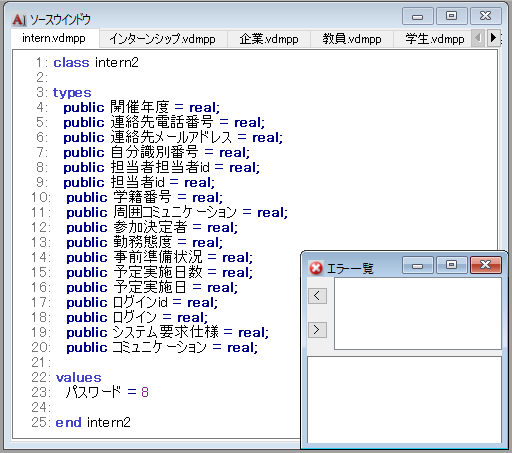
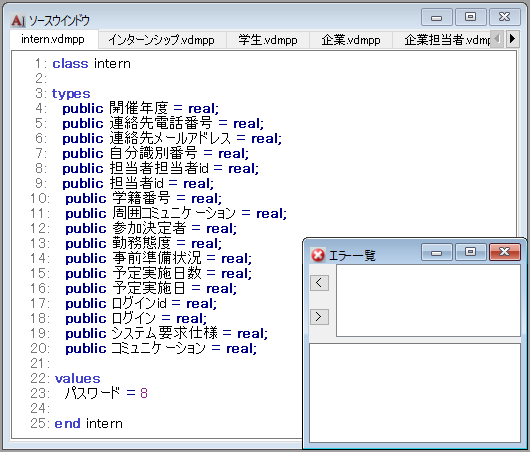
3回目の修正完了

Changed region(s): [[0.0, 0.0, 1.0, 1.0]]

diff --git a/chapters/50-indication.tex b/chapters/50-indication.tex
@@ -17,14 +17,14 @@ VGMLに、Microsoft社のwordで記述した自然言語仕様書「インター
 この適用例では、学習済みモデルを生成するために使用した教師データの自然言語仕様書と同じ自然言語仕様書をVGMLに適用することによって、
 VGMLが、VDM++仕様書のクラス、型定義、定数定義、インスタンス変数定義、操作定義を生成できること、かつ、生成したVDM++仕様書の構文が正しいことを確認する。
 
-VGMLに仕様書Aを適用した結果、6つのファイルを生成した。
+VGMLに仕様書Aを適用した結果、「intern.vdmpp」、「インターンシップ.vdmpp」、「学生.vdmpp」、「企業.vdmpp」、「企業担当者.vdmpp」、「教員.vdmpp」の6つのファイルを生成した。
 VGMLが仕様書Aを基に生成した6つのファイルを、図\ref{fig:indication_vdm1}-図\ref{fig:indication_vdm6}に示す。
 図\ref{fig:indication_vdm1}-図\ref{fig:indication_vdm6}は、VDM++ Toolbox\cite{Tools}での出力の画面である。
 
 \begin{figure}[p]
     \begin{center}
     \includegraphics[width=300]{image/indication_vdm1.PNG}
-    \caption{VGMLが仕様書Aを基に生成したファイル1}
+    \caption{VGMLが仕様書Aを基に生成したファイル「intern.vdmpp」}
     \label{fig:indication_vdm1}
     \end{center}
 \end{figure}
@@ -32,7 +32,7 @@ VGMLが仕様書Aを基に生成した6つのファイルを、図\ref{fig:indic
 \begin{figure}[p]
     \begin{center}
     \includegraphics[width=300]{image/indication_vdm2.PNG}
-    \caption{VGMLが仕様書Aを基に生成したファイル2}
+    \caption{VGMLが仕様書Aを基に生成したファイル「インターンシップ.vdmpp」}
     \label{fig:indication_vdm2}
     \end{center}
 \end{figure}
@@ -40,7 +40,7 @@ VGMLが仕様書Aを基に生成した6つのファイルを、図\ref{fig:indic
 \begin{figure}[p]
     \begin{center}
     \includegraphics[width=300]{image/indication_vdm3.PNG}
-    \caption{VGMLが仕様書Aを基に生成したファイル3}
+    \caption{VGMLが仕様書Aを基に生成したファイル「学生.vdmpp」}
     \label{fig:indication_vdm3}
     \end{center}
 \end{figure}
@@ -48,7 +48,7 @@ VGMLが仕様書Aを基に生成した6つのファイルを、図\ref{fig:indic
 \begin{figure}[tp]
     \begin{center}
     \includegraphics[width=300]{image/indication_vdm4.PNG}
-    \caption{VGMLが仕様書Aを基に生成したファイル4}
+    \caption{VGMLが仕様書Aを基に生成したファイル「企業.vdmpp」}
     \label{fig:indication_vdm4}
     \end{center}
 \end{figure}
@@ -56,7 +56,7 @@ VGMLが仕様書Aを基に生成した6つのファイルを、図\ref{fig:indic
 \begin{figure}[tp]
     \begin{center}
     \includegraphics[width=300]{image/indication_vdm5.PNG}
-    \caption{VGMLが仕様書Aを基に生成したファイル5}
+    \caption{VGMLが仕様書Aを基に生成したファイル「企業担当者.vdmpp」}
     \label{fig:indication_vdm5}
     \end{center}
 \end{figure}
@@ -64,12 +64,13 @@ VGMLが仕様書Aを基に生成した6つのファイルを、図\ref{fig:indic
 \begin{figure}[tp]
     \begin{center}
     \includegraphics[width=300]{image/indication_vdm6.PNG}
-    \caption{VGMLが仕様書Aを基に生成したファイル6}
+    \caption{VGMLが仕様書Aを基に生成したファイル「教員.vdmpp」}
     \label{fig:indication_vdm6}
     \end{center}
 \end{figure}
 
-構文、および、タイプチェッカーを備えたVDM++ Toolboxは、生成したVDM++仕様書に対して警告を表示しなかった。
+構文、および、タイプチェッカーを備えたVDM++ Toolboxは、構文にエラーがあればエラー一覧のウィンドウに、警告を表示する。
+適用結果の6つのファイルを確認したところ、VDM++ Toolboxは、VGMLが生成したVDM++仕様書に対して警告を表示しなかった。
 このことから、VGMLに自然言語仕様書を適用することにより、
 クラス、型定義、定数定義、インスタンス変数定義、操作定義を記述したVDM++仕様書を生成できること、
 かつ、生成したVDM++仕様書の構文が正しいことを確認した。

diff --git a/paper.tex b/paper.tex
@@ -84,16 +84,16 @@
 \begin{thebibliography}{10}
 	    
     \bibitem{shigyo1}Yasuhiro Shigyo, Tetsuro Katayama, Yoshihiro Kita, Hisaaki Yamaba, Kentaro Aburada, Naonobu Okazaki. 
-    Proposal of an Algorithm to Generate VDM++ by Using Word Lists Extracted from the Natural Language Speciﬁcation. 
+    Proposal of an Algorithm to Generate VDM++ by Using Word Lists Extracted from the Natural Language Specification. 
     The 2020 International Conference on Arificial Life and Robotics(ICAROB 2020), 
     pp. 763-766, 2020.
     
     \bibitem{shigyo2}Tetsuro Katayama, Yasuhiro Shigyo, Yoshihiro Kita, Hisaaki Yamaba, Kentaro Aburada, Naonobu Okazaki. 
-    Proposal of an Algorithm to Generate VDM++ Speciﬁcation Based on its Grammar by Using Word Lists Extracted from the Natural Language Speciﬁcation. 
+    Proposal of an Algorithm to Generate VDM++ Specification Based on its Grammar by Using Word Lists Extracted from the Natural Language Specification. 
     Journal of Robotics, Networking and Artiﬁcial Life, vol7(3), pp.165-169, 2020.
 
     \bibitem{shigyo3} Yasuhiro Shigyo, Tetsuro Katayama. 
-    Proposal of an Approach to Generate VDM++ Speciﬁcations from Natural Language Speciﬁcation by Machine Learning. 
+    Proposal of an Approach to Generate VDM++ Specifications from Natural Language Specification by Machine Learning. 
     2020 IEEE 9th Global Conference on Consumer Electronics(GCCE), 
     pp. 292-296, 2020.
 
@@ -109,6 +109,9 @@
     \bibitem{ET_robo}
     ETロボコン2020委員会,  “ETロボコン2020シュミレーター競技規約”, https:\slash \slash docs.etrobo.jp\slash rules\slash 2020\slash ETRC2020\_rules(sim)\_1.0.1.pdf. Acceseed: 2023-01-12.
 
+    \bibitem{F_value}
+    atmarkit, ``[評価指標]F値(F-measure、F-score)\slash F1スコア(F1-score)とは?'', https:\slash \slash atmarkit.itmedia.co.jp\slash ait\slash articles\slash 2210\slash 24\slash news034.html.
+
     \bibitem{research1}
     大森洋一, 荒木啓二郎. 
     自然言語による仕様記述の形式モデルへの変換を利用した品質向上に向けて. 
@@ -123,7 +126,7 @@
 
     \bibitem{research3}
     Lee Beum-Seuk, Barrett R. Bryant. 
-    Automated conversion from requirements documentation to an ob jectoriented formal speciﬁcation language. 
+    Automated conversion from requirements documentation to an ob jectoriented formal specification language. 
     2002 ACM Symposium on Applied Computing, pp. 932-936, 2002.
 
 \end{thebibliography}
